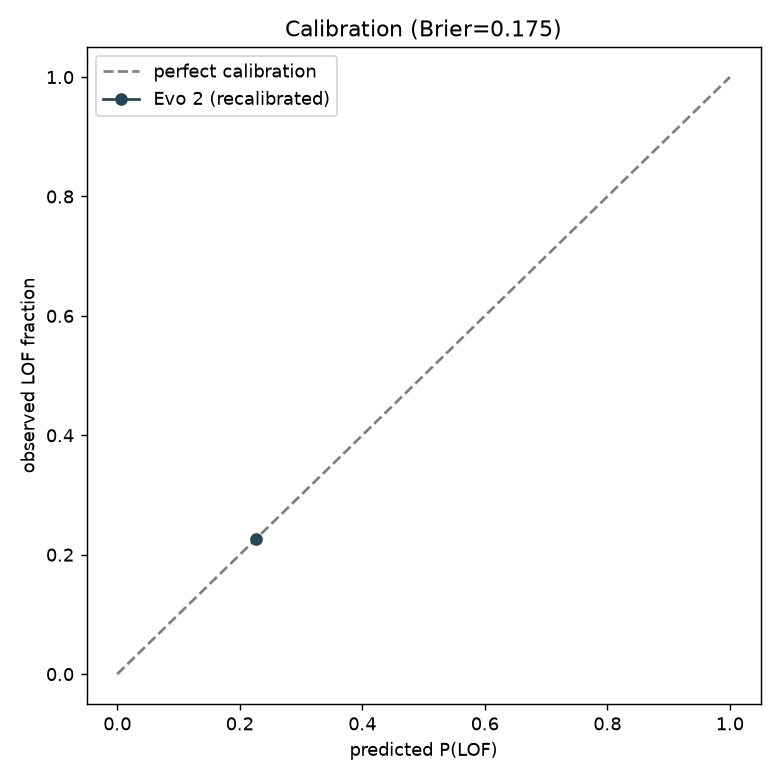
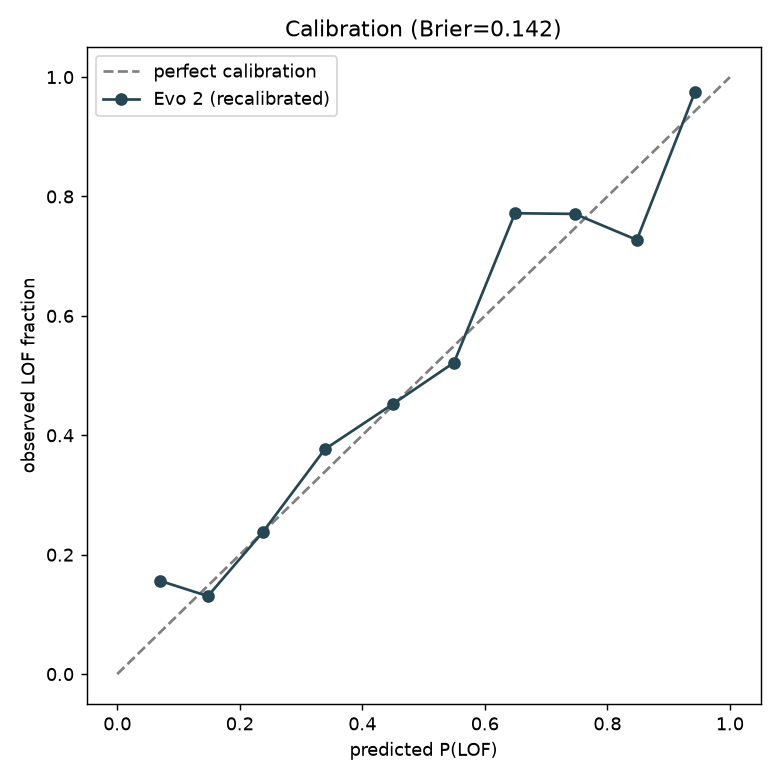
Milestone 5: trust-aware explanation layer (+ calibration bug fix)
- gvep/explain.py: per-variant structured + plain-language explanation combining
  calibrated P(disruptive), M3 per-category trust tier/caveat, ClinVar + Findlay context
- CLI 'explain' (--pos/--ref/--alt or demo); results/example_explanations.txt
- FIX: delta->probability calibrator (and M3 calibration) used unscaled logistic on a
  ~1e-3 feature -> collapsed to base rate (Brier was exactly the no-skill 0.175). Added
  StandardScaler; probabilities now span 7-97%, M3 Brier 0.175 -> 0.142, reliability tracks diagonal
- demo highlight: pathogenic start-codon p.M1I scored 19% 'tolerated' (model WRONG) but
  flagged LOW CONFIDENCE (missense) -> the caveat does its job
- M4 deferred (budget cap); README/NOTES/RESULTS updated

diff --git a/src/gvep/explain.py b/src/gvep/explain.py
@@ -1,0 +1,168 @@
+"""Milestone 5 — per-variant explanation layer.
+
+Turns the raw model output into a structured, plain-language, *honesty-aware* explanation
+for a single variant. Crucially, it doesn't just report a prediction — it reports **how much
+to trust that prediction for this variant's category**, using the Milestone 3 per-category
+reliability numbers. A confident-sounding answer on a missense variant (where the model is
+near chance) is exactly the kind of thing this layer guards against.
+
+Inputs it combines:
+  * Evo 2 delta score (M2) -> a calibrated P(disruptive).
+  * Per-category reliability (M3 honesty metrics) -> a trust tier + caveat.
+  * ClinVar context + the Findlay experimental label (benchmark ground truth).
+
+No GPU/network needed; operates on the variants we've already scored.
+The output is a plain dict, so an LLM could optionally render it as prose — but we render
+it deterministically here to stay free and reproducible.
+"""
+
+from __future__ import annotations
+
+import functools
+import json
+
+import numpy as np
+import pandas as pd
+from sklearn.linear_model import LogisticRegression
+from sklearn.pipeline import make_pipeline
+from sklearn.preprocessing import StandardScaler
+
+from gvep.analysis.dataset import load_scored_dataset
+from gvep.config import METRICS_DIR
+
+HONESTY_JSON = METRICS_DIR / "honesty_metrics.json"
+P_HIGH, P_LOW = 0.60, 0.20  # calibrated-probability cutoffs for the call
+
+
[email redacted]_cache(maxsize=1)
+def _context():
+    """Load the scored dataset, a delta->P(LOF) calibrator, and per-category trust."""
+    df = load_scored_dataset()
+    clean = df[df["class"].isin(["FUNC", "LOF"])]
+    # StandardScaler is essential: raw delta is ~1e-3, so without scaling the logistic
+    # coefficient stays tiny and predictions collapse to the base rate.
+    calibrator = make_pipeline(StandardScaler(), LogisticRegression()).fit(
+        (-clean["delta"]).to_numpy().reshape(-1, 1), clean["is_lof"].to_numpy()
+    )
+    trust = {}
+    if HONESTY_JSON.exists():
+        H = json.loads(HONESTY_JSON.read_text())
+        trust = {r["consequence"]: r for r in H.get("by_consequence", [])}
+    return df, calibrator, trust
+
+
+def _trust_tier(auroc: float | None) -> tuple[str, str]:
+    """Map a category's benchmark AUROC to a trust tier + plain-language caveat."""
+    if auroc is None:
+        return ("not assessable",
+                "this category had too few of one class in the benchmark to estimate "
+                "reliability — treat any prediction here as unvalidated")
+    if auroc >= 0.80:
+        return ("moderate–high",
+                f"the model separates this category reasonably well (benchmark AUROC {auroc:.2f})")
+    if auroc >= 0.70:
+        return ("moderate", f"the model has moderate skill here (benchmark AUROC {auroc:.2f})")
+    if auroc >= 0.60:
+        return ("low",
+                f"the model is weak here (benchmark AUROC {auroc:.2f} — not far above chance); "
+                "do not rely on this prediction")
+    return ("very low",
+            f"the model is essentially at chance here (benchmark AUROC {auroc:.2f}); "
+            "this prediction is not trustworthy")
+
+
+def explain_variant(pos: int, ref: str, alt: str) -> dict | None:
+    """Return a structured explanation dict for a variant, or None if not in our set."""
+    df, calibrator, trust = _context()
+    row = df[(df["pos"] == int(pos)) & (df["ref"] == ref.upper()) & (df["alt"] == alt.upper())]
+    if row.empty:
+        return None
+    r = row.iloc[0]
+
+    p = float(calibrator.predict_proba(np.array([[-r["delta"]]]))[0, 1])
+    call = ("LIKELY DISRUPTIVE (pathogenic-leaning)" if p >= P_HIGH
+            else "LIKELY TOLERATED (benign-leaning)" if p <= P_LOW
+            else "UNCERTAIN")
+    cons = r["consequence"]
+    t = trust.get(cons, {})
+    tier, caveat = _trust_tier(t.get("auroc"))
+    prot = r.get("protein_variant")
+    clinvar = r.get("clinvar")
+
+    return {
+        "variant": f"chr17:{int(r['pos'])} {r['ref']}>{r['alt']}",
+        "gene": "BRCA1",
+        "consequence": cons,
+        "protein_variant": prot if pd.notna(prot) else None,
+        "evo2_delta": round(float(r["delta"]), 6),
+        "prob_disruptive": round(p, 3),
+        "prediction": call,
+        "trust_tier": tier,
+        "trust_caveat": caveat,
+        "category_auroc": t.get("auroc"),
+        "category_fpr_at_90_sens": t.get("fpr"),
+        "clinvar": clinvar if pd.notna(clinvar) else "not in ClinVar slice",
+        "findlay_experimental_class": r["class"],
+    }
+
+
+def format_explanation(e: dict) -> str:
+    """Render the structured explanation as a readable, honest text block."""
+    prot = f", {e['protein_variant']}" if e["protein_variant"] else ""
+    warn = "⚠ " if e["trust_tier"] in ("low", "very low", "not assessable") else ""
+    fpr = e["category_fpr_at_90_sens"]
+    fpr_txt = (f" Category false-alarm rate at high sensitivity is {fpr:.0%}."
+               if isinstance(fpr, (int, float)) else "")
+    lines = [
+        "─" * 66,
+        f" VARIANT  {e['variant']}   ({e['gene']}, {e['consequence']}{prot})",
+        "─" * 66,
+        f" Evo 2 zero-shot delta   : {e['evo2_delta']:+.6f}",
+        f" Estimated P(disruptive) : {e['prob_disruptive']:.0%}",
+        f" PREDICTION              : {e['prediction']}",
+        "",
+        f" {warn}CONFIDENCE: {e['trust_tier'].upper()}",
+        f"   This is a {e['consequence'].upper()} variant — {e['trust_caveat']}.{fpr_txt}",
+        "",
+        f" ClinVar                 : {e['clinvar']}",
+        f" Findlay experiment      : {e['findlay_experimental_class']}  (benchmark ground truth)",
+        "",
+        " NOTE: research/triage prototype — NOT a clinical diagnostic.",
+        "─" * 66,
+    ]
+    return "\n".join(lines)
+
+
+def _demo_variants(df) -> list[tuple[int, str, str]]:
+    """Pick a few variants that showcase the range of trust tiers."""
+    picks = []
+    # a missense the model gets WRONG (truth LOF, low score) -> low-trust caveat
+    mis = df[(df["consequence"] == "Missense") & (df["class"] == "LOF")].sort_values("delta")
+    if len(mis):
+        r = mis.iloc[len(mis) // 2]; picks.append((int(r.pos), r.ref, r.alt))
+    # a splice-region LOF (higher trust category)
+    sp = df[(df["consequence"] == "Splice region") & (df["class"] == "LOF")].sort_values("delta")
+    if len(sp):
+        r = sp.iloc[0]; picks.append((int(r.pos), r.ref, r.alt))
+    # a benign synonymous
+    syn = df[(df["consequence"] == "Synonymous") & (df["class"] == "FUNC")]
+    if len(syn):
+        r = syn.iloc[0]; picks.append((int(r.pos), r.ref, r.alt))
+    return picks
+
+
+def run_demo() -> None:
+    """Print explanations for a few illustrative variants and save them."""
+    df, _, _ = _context()
+    from gvep.config import RESULTS_DIR
+
+    blocks = []
+    print("\n  MILESTONE 5 — per-variant explanations (illustrative)\n")
+    for pos, ref, alt in _demo_variants(df):
+        e = explain_variant(pos, ref, alt)
+        if e:
+            block = format_explanation(e)
+            print(block + "\n")
+            blocks.append(block)
+    (RESULTS_DIR / "example_explanations.txt").write_text("\n\n".join(blocks))
+    print(f"  saved -> {RESULTS_DIR / 'example_explanations.txt'}")

diff --git a/src/gvep/cli.py b/src/gvep/cli.py
@@ -64,6 +64,21 @@ def cmd_classify(_args: argparse.Namespace) -> int:
     return 0
 
 
+def cmd_explain(args: argparse.Namespace) -> int:
+    """[Milestone 5] Plain-language, trust-aware explanation for a variant."""
+    from gvep.explain import explain_variant, format_explanation, run_demo
+
+    if args.pos and args.ref and args.alt:
+        e = explain_variant(args.pos, args.ref, args.alt)
+        if e is None:
+            print(f"Variant chr17:{args.pos} {args.ref}>{args.alt} not in the scored set.")
+            return 1
+        print(format_explanation(e))
+    else:
+        run_demo()
+    return 0
+
+
 def build_parser() -> argparse.ArgumentParser:
     parser = argparse.ArgumentParser(
         prog="gvep",
@@ -78,6 +93,11 @@ def build_parser() -> argparse.ArgumentParser:
     sub.add_parser("sanity", help="[M2] plot delta distributions + quick AUROC").set_defaults(func=cmd_sanity)
     sub.add_parser("validate", help="[M3] metrics + honesty layer").set_defaults(func=cmd_validate)
     sub.add_parser("classify", help="[M4] embedding classifier vs zero-shot").set_defaults(func=cmd_classify)
+    p_ex = sub.add_parser("explain", help="[M5] trust-aware explanation for a variant")
+    p_ex.add_argument("--pos", type=int, help="hg19 position on chr17")
+    p_ex.add_argument("--ref", type=str, help="reference allele")
+    p_ex.add_argument("--alt", type=str, help="alternate allele")
+    p_ex.set_defaults(func=cmd_explain)
     return parser
 
 

diff --git a/src/gvep/analysis/honesty.py b/src/gvep/analysis/honesty.py
@@ -33,6 +33,8 @@ from sklearn.metrics import (
     roc_curve,
 )
 from sklearn.model_selection import cross_val_predict
+from sklearn.pipeline import make_pipeline
+from sklearn.preprocessing import StandardScaler
 
 from gvep.analysis.dataset import PREDICTORS, load_scored_dataset
 from gvep.config import FIGURES_DIR, METRICS_DIR
@@ -145,8 +147,10 @@ def run() -> dict:
                 M[key][val] = {"n": int(len(g)), "auroc": float(roc_auc_score(yg, sg))}
 
     # --- 4. Calibration (cross-validated logistic -> reliability) ------------
-    lr = LogisticRegression()
-    p = cross_val_predict(lr, s_clean.reshape(-1, 1), y_clean, cv=5, method="predict_proba")[:, 1]
+    # StandardScaler is essential: raw delta is ~1e-3, so an unscaled logistic collapses
+    # to the base rate (its Brier would just equal the no-skill prevalence baseline).
+    cal = make_pipeline(StandardScaler(), LogisticRegression())
+    p = cross_val_predict(cal, s_clean.reshape(-1, 1), y_clean, cv=5, method="predict_proba")[:, 1]
     brier = brier_score_loss(y_clean, p)
     M["calibration"] = {"brier": float(brier)}
     print(f"\n[4] CALIBRATION (after CV logistic recalibration): Brier={brier:.3f}")

diff --git a/src/gvep/analysis/dataset.py b/src/gvep/analysis/dataset.py
@@ -47,7 +47,7 @@ def load_scored_dataset() -> pd.DataFrame:
 
     download_findlay()
     ann = pd.read_excel(FINDLAY_XLSX, header=2, engine="openpyxl")[
-        ["position (hg19)", "reference", "alt", "consequence",
+        ["position (hg19)", "reference", "alt", "consequence", "protein_variant",
          "CADD.score", "phyloP (mammalian)", "sift", "polyphen2",
          "gnomAD_AF", "clinvar_simple"]
     ].rename(columns={

diff --git a/NOTES.md b/NOTES.md
@@ -220,4 +220,50 @@ evaluation, and "AUROC not computable when a stratum is single-class."
 ---
 
 ## Milestone 4 — Embedding-based classifier
+*(DEFERRED — engine built & smoke-tested, but the full embedding extraction kept hitting the
+Modal free-tier/new-card budget cap. Code is ready: `modal run -m gvep.scoring.modal_app::embed`
+(now should be made checkpoint-resumable before re-attempting). Skipped to M5 to keep momentum
+for $0.)*
+
+---
+
+## Milestone 5 — Explanation layer
+
+**Date:** 2026-06-17
+
+### What this milestone is
+Turn the model output into a structured, plain-language, **trust-aware** explanation per
+variant — the piece that makes the honesty layer actionable. Code: `gvep/explain.py`;
+run via `python -m gvep.cli explain [--pos --ref --alt]`.
+
+### What it combines
+- Evo 2 delta (M2) → a **calibrated P(disruptive)**.
+- M3 per-category reliability → a **trust tier + caveat** (e.g. missense = "low, don't rely";
+  splice region = "moderate–high").
+- ClinVar significance + the Findlay experimental label (benchmark ground truth).
+
+### Bug caught & fixed (important)
+The delta→probability calibrator (and the M3 calibration block) used an **unscaled** logistic on
+a ~1e-3 feature, so it collapsed to the base rate (every variant ≈ 22.6%). The tell: M3's Brier
+was exactly 0.226×0.774 = 0.175 (the no-skill value). Fix: **StandardScaler before LogisticRegression**.
+After the fix, probabilities span ~7%–97% and M3 Brier improved 0.175 → **0.142**; reliability
+diagram now tracks the diagonal.
+
+### Demo highlight (why this layer matters)
+The start-codon missense **p.M1I** (truly pathogenic / start-loss) gets delta −0.0003 → only
+**19% "likely tolerated"** — the model is **wrong** — but the explanation flags **⚠ LOW CONFIDENCE
+(missense, AUROC 0.60)**. Meanwhile a splice-region LOF (delta −0.0042) correctly reads **97%
+disruptive, moderate–high confidence**. The category-aware caveat is what stops a user from
+trusting the confident-but-wrong missense call.
+
+### Output
+`results/example_explanations.txt`. CLI also explains any scored variant by coordinate.
+
+### LLM option
+Output is a structured dict, so an LLM *could* render the prose; we render deterministically to
+stay free + reproducible.
+
+---
+
+## Milestone 6 — Demo app + packaging
 *(not started)*

diff --git a/RESULTS.md b/RESULTS.md
@@ -92,11 +92,15 @@ function is often the clinically ambiguous case where help is most needed.
 
 ## 5. Calibration
 
-Raw delta scores are **not** probabilities (they're tiny per-token log-likelihood differences).
-After a cross-validated logistic recalibration, the reliability diagram (`m3_calibration.png`) is
-reasonable (**Brier = 0.175**), but the takeaway is that **the raw score must be recalibrated
-before it can be read as a "probability of pathogenic"** — an important caveat for any downstream
-use or explanation layer.
+Raw delta scores are **not** probabilities (they're tiny per-token log-likelihood differences,
+~1e-3). They must be recalibrated before they can be read as a "probability of pathogenic" — and
+the recalibration must **standardize** the feature first, or the logistic collapses to the base
+rate (a subtle bug we caught: its Brier equalled the no-skill prevalence baseline exactly).
+
+After a *properly scaled*, cross-validated logistic recalibration, the reliability diagram
+(`m3_calibration.png`) tracks the diagonal well across the full 0–1 range (**Brier = 0.142** vs a
+no-skill baseline of 0.175). So the recalibrated probability is usable — but only as a rough,
+gene-specific estimate, and the raw score alone is not interpretable as a probability.
 
 ---
 

diff --git a/README.md b/README.md
@@ -52,9 +52,9 @@ rationale, hardware findings, and licensing are documented in
 | 1 | Data layer (Findlay + ClinVar + reference) | ✅ done |
 | 2 | Core zero-shot scoring engine | ✅ done (AUROC 0.74, matches published ~0.73) |
 | 3 | Validation + honesty layer | ✅ done (see [RESULTS.md](RESULTS.md)) |
-| 4 | Embedding-based classifier | ⬜ next |
-| 5 | Explanation layer | ⬜ |
-| 6 | Demo app + packaging | ⬜ |
+| 4 | Embedding-based classifier | ⏸️ deferred (engine ready; paused on cloud budget) |
+| 5 | Explanation layer | ✅ done (trust-aware per-variant explanations) |
+| 6 | Demo app + packaging | ⬜ next |
 
 ## Quickstart
 